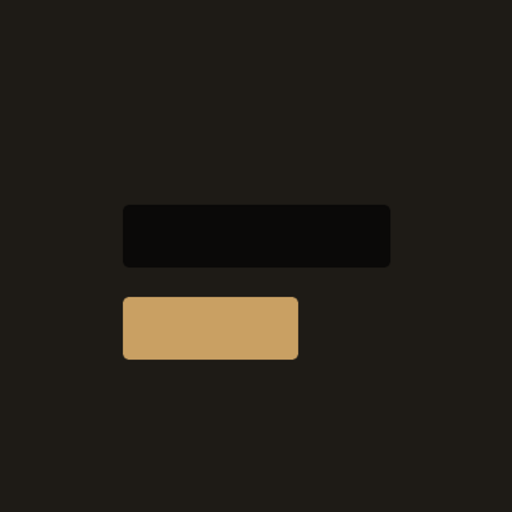
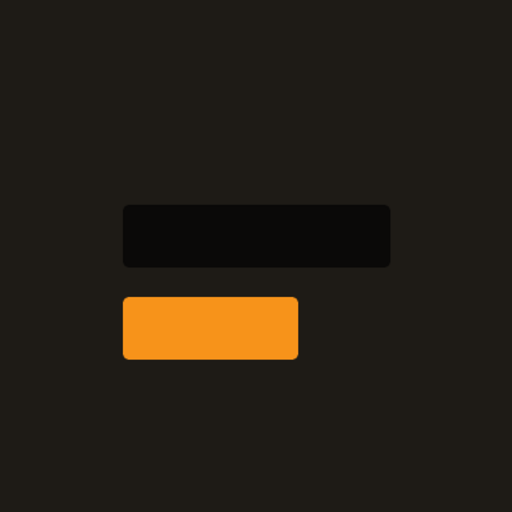
Switch accent color to official Bitcoin orange
User feedback: the muted kraft/tan accent read as dull, wanted Bitcoin
colors. Swapped --color-kraft/--color-kraft-bright to Bitcoin's
official orange (#F7931A / a brighter #FFAB3D for hover), which
actually contrasts better against the dark background than the old
tan (7.47:1 vs 7.10:1). Regenerated favicon/icons/OG image to match
since those bake the color in as literal hex, not a CSS var. Also
recalculated the darkened print-safe orange for the @media print
palette.

Changed region(s): [[0.2188, 0.5625, 0.5938, 0.7188]]

diff --git a/src/app/globals.css b/src/app/globals.css
@@ -20,8 +20,11 @@
   --color-parchment-dim: #b9ac93;
 
   --color-redact: #0a0908;
-  --color-kraft: #c9a063;
-  --color-kraft-bright: #e0b878;
+  /* Acento: naranja oficial de Bitcoin (#F7931A) en vez del tostado kraft
+     original — el nombre de la variable quedó igual para no tocar todos
+     los usos, pero el valor ya no es "kraft". */
+  --color-kraft: #f7931a;
+  --color-kraft-bright: #ffab3d;
   --color-stamp-red: #b23a2e;
   /* Ajustado desde #d4574a: ese tono no llegaba a 4.5:1 (WCAG AA) como
      texto sobre charcoal/surface. */
@@ -196,8 +199,8 @@ body {
     --surface: #f7f3ea;
     --surface-line: #d8cfba;
     --muted: #5c5346;
-    --color-kraft: #836840;
-    --color-kraft-bright: #836840;
+    --color-kraft: #945810;
+    --color-kraft-bright: #945810;
     --color-stamp-red-bright: var(--color-stamp-red-deep);
     --color-stamp-green-bright: var(--color-stamp-green-deep);
     --color-stamp-amber: var(--color-stamp-amber-deep);

diff --git a/src/app/opengraph-image.tsx b/src/app/opengraph-image.tsx
@@ -25,7 +25,7 @@ export default function Image() {
             fontSize: 22,
             letterSpacing: 4,
             textTransform: "uppercase",
-            color: "#c9a063",
+            color: "#f7931a",
             marginBottom: 28,
           }}
         >
@@ -58,7 +58,7 @@ export default function Image() {
               display: "flex",
               width: 180,
               height: 26,
-              background: "#c9a063",
+              background: "#f7931a",
               borderRadius: 3,
             }}
           />
